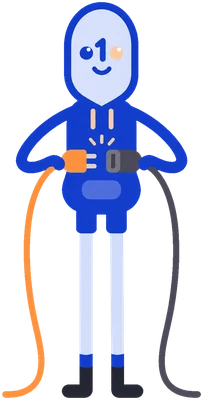
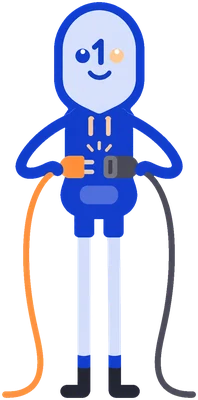
Personnage 2/4 : maintenance, pas de connexion, aucune offre avec ces filtres
- Maintenance (mise à jour, annoncée) : perso-09 à la nouvelle tête, 250 px.
- Pas de connexion : perso-10 au téléphone, distinct de la maintenance ;
  les deux poses chargées d'avance.
- Aucune offre avec ces filtres (téléphone) : perso-11 à la loupe, 200 px,
  dans CharacterState.vue (même mise en page que FaceState).
- Retirées de l'ancienne série : connexion-perdue (l'erreur réseau dans la
  page garde la mascotte qui fait « non »), introuvable (l'offre introuvable
  garde le visage), aucune-offre.

Claude-Session: https://claude.ai/code/session_014TQZXHnfCerURJXKEPELE9

diff --git a/frontend/src/components/MaintenanceOverlay.vue b/frontend/src/components/MaintenanceOverlay.vue
@@ -1,18 +1,18 @@
 <script lang="ts">
-import { KIT } from "../personnage";
+import { poseFile } from "../personnage";
 
-// Adresses écrites en clair : la page d'attente est dans le premier écran, sans la table des poses.
-const cables = `/personnage/perso-09-cables-400.webp?v=${KIT}`;
-const CABLES_SRCSET = `${cables} 1x, /personnage/perso-09-cables-800.webp?v=${KIT} 2x`;
-// Le personnage est chargé d'avance au premier moment libre et gardé en mémoire : pendant la
-// maintenance, le serveur ne répond peut-être plus (docs/80 §2).
-let held: HTMLImageElement | null = null;
+// Les deux poses sont chargées d'avance au premier moment libre et gardées en mémoire : pendant la
+// maintenance, le serveur ne répond peut-être plus ; hors ligne, plus rien n'arrive (docs/80 §2).
+const held: HTMLImageElement[] = [];
 const idle = globalThis.requestIdleCallback ?? ((run: () => void) => setTimeout(run, 1500));
 if (typeof Image !== "undefined") {
   idle(() => {
-    held = new Image();
-    held.srcset = CABLES_SRCSET;
-    held.src = cables;
+    for (const pose of ["cables", "hors-ligne"] as const) {
+      const img = new Image();
+      img.srcset = `${poseFile(pose, 400)} 1x, ${poseFile(pose, 800)} 2x`;
+      img.src = poseFile(pose, 400);
+      held.push(img);
+    }
   });
 }
 </script>
@@ -20,9 +20,13 @@ if (typeof Image !== "undefined") {
 <script setup lang="ts">
 import { computed, nextTick, onMounted, onUnmounted, ref, watch } from "vue";
 
+import Illustration from "./Illustration.vue";
+
 // La page d'attente (docs/79) : par-dessus tout, sans recharger ; le reste de l'écran est
 // inerte tant qu'elle est là, et retrouvé tel quel ensuite. Mise en page (maquettes MaintenanceMaj,
-// MaintenanceAnnoncee et MaintenanceHorsLigne du 2026-11-05) : le personnage aux câbles du kit, un titre
+// MaintenanceAnnoncee et MaintenanceHorsLigne du 2026-11-06) : le personnage aux câbles (nouvelle tête) pour
+// la mise à jour et la maintenance annoncée, le personnage au téléphone quand le réseau manque (docs/141, 5 et
+// 6), 250 px ; un titre
 // selon le cas, ce qui se passe, puis en bas le prochain essai et « Réessayer maintenant ».
 // Trois cas : hors ligne (le navigateur le sait), une maintenance annoncée avec son message, sinon
 // une mise à jour.
@@ -107,16 +111,14 @@ async function retry(): Promise<void> {
       data-test="maintenance"
     >
       <div class="maintenance-body">
-        <img
+        <Illustration
+          :pose="offline ? 'hors-ligne' : 'cables'"
+          :height="250"
+          :desktop-height="290"
+          full
           class="maintenance-person"
-          :src="cables"
-          :srcset="CABLES_SRCSET"
-          alt=""
-          aria-hidden="true"
-          width="203"
-          height="400"
           data-test="maintenance-person"
-        >
+        />
         <h1 id="maintenance-title">
           {{ title }}
         </h1>

diff --git a/frontend/src/components/MaintenanceOverlay.test.ts b/frontend/src/components/MaintenanceOverlay.test.ts
@@ -120,11 +120,12 @@ describe("page de maintenance, mise en page (maquettes Maintenance du 2026-11-05
     await flushPromises();
     expect(wrapper.emitted("retry")).toHaveLength(1);
     expect(next()?.trim()).toBe("Nouvel essai en cours…");
-    // Le personnage aux câbles du kit : 400 px, 800 px en 2×, décoratif ; pas d'en-tête.
+    // Le personnage aux câbles (docs/141, 5) : 400 px, 800 px en 2×, 250 px, décoratif ; pas d'en-tête.
     const person = document.querySelector("[data-test=maintenance-person]");
     expect(person?.getAttribute("src")).toContain("perso-09-cables-400");
     expect(person?.getAttribute("srcset")).toContain("perso-09-cables-800");
     expect(person?.getAttribute("alt")).toBe("");
+    expect(person?.getAttribute("height")).toBe("250");
     expect(document.querySelector(".maintenance header")).toBeNull();
     wrapper.unmount();
   });
@@ -136,10 +137,14 @@ describe("page de maintenance, mise en page (maquettes Maintenance du 2026-11-05
     const title = () => document.querySelector("[data-test=maintenance] h1")?.textContent?.trim();
     expect(title()).toBe("Pas de connexion");
     expect(document.querySelector("[data-test=maintenance]")?.textContent).toContain("Vérifie le Wi‑Fi ou les données mobiles.");
+    // Le personnage au téléphone, distinct de la maintenance (docs/141, 6).
+    const pose = () => document.querySelector("[data-test=maintenance-person]")?.getAttribute("data-pose");
+    expect(pose()).toBe("hors-ligne");
     online.mockReturnValue(true);
     window.dispatchEvent(new Event("online"));
     await flushPromises();
     expect(title()).toBe("jobA1 se met à jour");
+    expect(pose()).toBe("cables");
     online.mockRestore();
     wrapper.unmount();
   });

diff --git a/frontend/src/views/OffersView.vue b/frontend/src/views/OffersView.vue
@@ -20,6 +20,7 @@ import OfferFilterSheet from "../components/OfferFilterSheet.vue";
 import OfferFiltersPanel from "../components/OfferFiltersPanel.vue";
 import OfferFilterChips from "../components/OfferFilterChips.vue";
 import OfferSearch from "../components/OfferSearch.vue";
+import CharacterState from "../components/CharacterState.vue";
 import FaceState from "../components/FaceState.vue";
 import { applicationBody } from "../applicationBody";
 import { useAssistant } from "../composables/useAssistant";
@@ -786,12 +787,12 @@ onUnmounted(() => {
             </RouterLink>
           </div>
         </FaceState>
-        <!-- Téléphone (maquette AucuneOffre, C9) : ce qui filtre, en mots, et « Modifier les filtres ». -->
-        <FaceState
+        <!-- Téléphone (maquette AucuneOffre du 6.11, C9) : le personnage à la loupe (docs/141, 7), ce qui filtre,
+             en mots, et « Modifier les filtres ». -->
+        <CharacterState
           v-else-if="!loading && items.length === 0 && activeCount(filters) && phone"
+          pose="loupe"
           title="Aucune offre avec ces filtres"
-          mood="neutre"
-          animation="loupe"
           data-test="offers-empty"
         >
           <p>{{ emptyFiltersLine }}</p>
@@ -805,7 +806,7 @@ onUnmounted(() => {
               Modifier les filtres
             </button>
           </div>
-        </FaceState>
+        </CharacterState>
         <!-- Aucun résultat avec des filtres (règles §4) : une ligne grise et « Effacer les filtres ». -->
         <p
           v-else-if="!loading && items.length === 0 && activeCount(filters)"

diff --git a/frontend/src/components/CharacterState.vue b/frontend/src/components/CharacterState.vue
@@ -1,0 +1,40 @@
+<script setup lang="ts">
+import type { Pose } from "../personnage";
+import Illustration from "./Illustration.vue";
+
+// Un état montré par le personnage (docs/141 §3) : la pose, le titre, une ligne, puis les actions. Même
+// mise en page que FaceState, mais avec le personnage à la place du visage ; jamais les deux à la fois.
+// `full` : un écran plein (240 à 280 px) ; sinon l'état tient dans une liste (200 px au plus).
+withDefaults(
+  defineProps<{ pose: Pose; title: string; height?: number; desktopHeight?: number; full?: boolean; heading?: "h1" | "h2" }>(),
+  { height: 200, desktopHeight: undefined, full: false, heading: "h2" },
+);
+</script>
+
+<template>
+  <div class="face-state character-state">
+    <Illustration
+      :pose="pose"
+      :height="height"
+      :desktop-height="desktopHeight"
+      :full="full"
+    />
+    <component
+      :is="heading"
+      class="face-state-title character-state-title"
+    >
+      {{ title }}
+    </component>
+    <div
+      v-if="$slots.default"
+      class="face-state-line"
+    >
+      <slot />
+    </div>
+  </div>
+</template>
+
+<style scoped>
+/* Valeurs de la maquette AucuneOffre (390 px) : le titre à 22 px en gras, 8 px sous le personnage. */
+.character-state-title { margin-top: var(--space-2); font-size: var(--font-section); font-weight: var(--weight-bold); }
+</style>

diff --git a/frontend/src/components/NetworkError.test.ts b/frontend/src/components/NetworkError.test.ts
@@ -4,11 +4,15 @@ import { describe, expect, it, vi } from "vitest";
 import { isNetworkError } from "../network";
 import NetworkError from "./NetworkError.vue";
 
-describe("Pas de connexion (planche « Illustrations »)", () => {
-  it("l'illustration, le titre, la promesse tenue : « Réessayer » et le retour du réseau relancent", async () => {
+describe("Pas de connexion, erreur dans la page (docs/141)", () => {
+  it("la mascotte qui dit « non », le titre, la promesse tenue : « Réessayer » et le retour du réseau relancent", async () => {
     const wrapper = mount(NetworkError);
-    expect(wrapper.find(".illu").exists()).toBe(true);
-    expect(wrapper.find(".face-mark").exists()).toBe(false);
+    await vi.dynamicImportSettled();
+    await flushPromises();
+    // Plus l'ancienne illustration de la baie de serveurs, ni le personnage.
+    expect(wrapper.find(".illu").exists()).toBe(false);
+    expect(wrapper.find("[data-illustration=personnage]").exists()).toBe(false);
+    expect(wrapper.find("[data-mood-animation=hochement]").exists()).toBe(true);
     expect(wrapper.find(".face-state-title").text()).toBe("Pas de connexion");
     expect(wrapper.text()).toContain("jobA1 réessaie dès que le réseau revient.");
     await wrapper.find("[data-test=network-retry]").trigger("click");

diff --git a/frontend/src/components/NetworkError.vue b/frontend/src/components/NetworkError.vue
@@ -8,7 +8,8 @@ import FaceState from "./FaceState.vue";
 // échoue pour une raison de réseau. jobA1 réessaie de lui-même dès que le réseau revient (l'événement
 // « online » du navigateur) : la phrase le promet parce que c'est vrai ; « Réessayer » le fait tout de
 // suite. Rien de ce qui est saisi n'est effacé.
-// `title` et `line` (téléphone, maquette ErreurConnexion) : le visage au lieu de l'illustration, une phrase
+// Une erreur dans la page : la petite mascotte d'humeur qui fait « non » (docs/141 §1), plus l'ancienne
+// illustration de la baie de serveurs. `title` et `line` (téléphone, maquette ErreurConnexion) : une phrase
 // propre à la page, et « Réessayer » en bouton principal.
 const props = defineProps<{ title?: string; line?: string }>();
 const emit = defineEmits<{ retry: [] }>();
@@ -23,9 +24,8 @@ onUnmounted(() => globalThis.removeEventListener?.("online", back));
 <template>
   <FaceState
     :title="props.title ?? 'Pas de connexion'"
-    :illustration="props.title ? undefined : 'connexion-perdue'"
     mood="attentif"
-    :animation="props.title ? 'hochement' : undefined"
+    animation="hochement"
     :role="props.title ? 'alert' : undefined"
     data-test="network-error"
   >

diff --git a/frontend/src/style.css b/frontend/src/style.css
@@ -2346,8 +2346,6 @@ button.secondary.danger:hover:not(:disabled) { border-color: var(--down-text); }
 /* La page d'attente (maquettes Maintenance du 2026-11-05) : le personnage, le titre et la phrase au centre ;
    le prochain essai et « Réessayer maintenant » (bouton secondaire, pleine largeur) en bas. */
 .maintenance-body { flex: 1; display: flex; flex-direction: column; align-items: center; justify-content: center; gap: var(--space-3); padding: var(--space-8) var(--space-8) 0; text-align: center; }
-.maintenance-person { display: block; width: auto; height: 200px; }
-@media (min-width: 821px) { .maintenance-person { height: 290px; } }
 .maintenance-body h1 { margin: var(--space-1) 0 0; font-size: var(--font-figure); line-height: var(--leading-tight); font-weight: var(--weight-bold); }
 .maintenance-message { margin: 0; max-width: 310px; font-size: var(--font-body); line-height: var(--leading-normal); color: var(--text-tertiary); }
 .maintenance-status { flex: none; display: flex; flex-direction: column; align-items: center; gap: var(--space-2); padding: 0 var(--space-5) var(--space-8); }

diff --git a/frontend/src/views/OffersView.phone.test.ts b/frontend/src/views/OffersView.phone.test.ts
@@ -167,6 +167,12 @@ describe("Candidatures sur téléphone, étape 5d (docs/139, C6 et C9)", () => {
     expect(empty.find(".face-state-title").text()).toBe("Aucune offre avec ces filtres");
     expect(empty.text()).toContain("Note minimale : Proche et plus, Taux minimum : 80 %. Élargis un critère pour voir plus d'offres.");
     expect(empty.find("[data-test=offers-edit-filters]").classes()).toContain("primary");
+    // Le personnage à la loupe (maquette AucuneOffre du 6.11, docs/141) : 200 px, seul sur l'écran.
+    const person = empty.find("[data-illustration=personnage]");
+    expect(person.attributes("data-pose")).toBe("loupe");
+    expect(person.attributes("height")).toBe("200");
+    expect(wrapper.find("[data-mood-animation]").exists()).toBe(false);
+    expect(wrapper.find(".face-mark").exists()).toBe(false);
     wrapper.unmount();
   });
 

diff --git a/frontend/src/views/PreparationView.vue b/frontend/src/views/PreparationView.vue
@@ -683,11 +683,12 @@ onMounted(() => void load());
     class="band"
   >
     <div class="container">
-      <!-- Offre introuvable (planche « Illustrations ») : retirée par l'employeur, peut-être. -->
+      <!-- Offre introuvable : retirée par l'employeur, peut-être. Un écran de travail : le visage, jamais le
+           personnage (docs/141 §1). -->
       <FaceState
         v-if="notFound"
         title="Offre introuvable"
-        illustration="introuvable"
+        mood="attentif"
         data-test="offer-not-found"
       >
         <p>Elle a peut-être été retirée par l'employeur.</p>

diff --git a/frontend/src/components/SceneIllustration.vue b/frontend/src/components/SceneIllustration.vue
@@ -43,7 +43,6 @@ export type SceneName =
   | "accueil-reseau"
   | "actualites-video"
   | "alertes-carte"
-  | "aucune-offre"
   | "bilan"
   | "emails-tries"
   | "formations"
@@ -57,14 +56,12 @@ export type SceneName =
   | "tableau-de-bord"
   // Série du 27.10 (règle §4) : écrans vides, premiers pas, réussites, erreurs.
   | "reussite"
-  | "connexion-perdue"
   | "assistant-vide"
   | "preparer-vide"
   | "ia-vide"
   | "rendez-vous-vide"
   | "formations-vide"
-  | "trop-tot"
-  | "introuvable";
+  | "trop-tot";
 </script>
 
 <template>

diff --git a/frontend/src/personnage.test.ts b/frontend/src/personnage.test.ts
@@ -29,6 +29,8 @@ export const SCREENS: Record<string, string> = {
   "views/WelcomeView.vue": "premiers pas : étape CV, « Tout est prêt. »",
   "components/AuthIllustration.vue": "connexion, téléphone et ordinateur",
   "views/NotFoundView.vue": "page introuvable",
+  "components/MaintenanceOverlay.vue": "maintenance (mise à jour, annoncée) et pas de connexion",
+  "components/CharacterState.vue": "un état montré par le personnage : aucune offre avec ces filtres",
 };
 
 // Les écrans de travail : jamais le personnage (docs/141 §1).

diff --git a/docs/141-personnage.md b/docs/141-personnage.md
@@ -67,6 +67,11 @@ personnage (PR 4).
 - L'ancienne série (`SceneIllustration`) reste sur des écrans hors de la liste du §3, en attendant la décision de
   Kevin : Découvrir (page publique), Assistant avant la première question (`assistant-vide`), Réglages › IA
   (`ia-vide`), Formations vide (`formations-vide`), Bilan « Trop tôt » (`trop-tot`), Préparer vide
-  (`preparer-vide`), réussites « Tri terminé » et « Tout est à jour » (`reussite`), offre introuvable
-  (`introuvable`), erreur réseau sur ordinateur (`connexion-perdue`). Elles sont retirées au fil des PR quand
-  l'écran passe au personnage ou à une mascotte d'humeur.
+  (`preparer-vide`), réussites « Tri terminé » et « Tout est à jour » (`reussite`). Elles sont retirées au fil des
+  PR quand l'écran passe au personnage ou à une mascotte d'humeur.
+- Retirées (PR 2) : `connexion-perdue` (la baie de serveurs : l'erreur réseau dans la page montre la mascotte qui
+  fait « non », sur ordinateur comme sur téléphone), `introuvable` (la personne devant un écran : l'offre
+  introuvable est un écran de travail, elle garde le visage du 1), `aucune-offre` (remplacée par le personnage à la
+  loupe ; l'image n'était plus utilisée).
+- Maintenance et pas de connexion : 250 px sur téléphone (maquette), 290 px sur ordinateur. Les deux poses sont
+  chargées d'avance, puisque le réseau peut manquer quand l'écran s'affiche.
